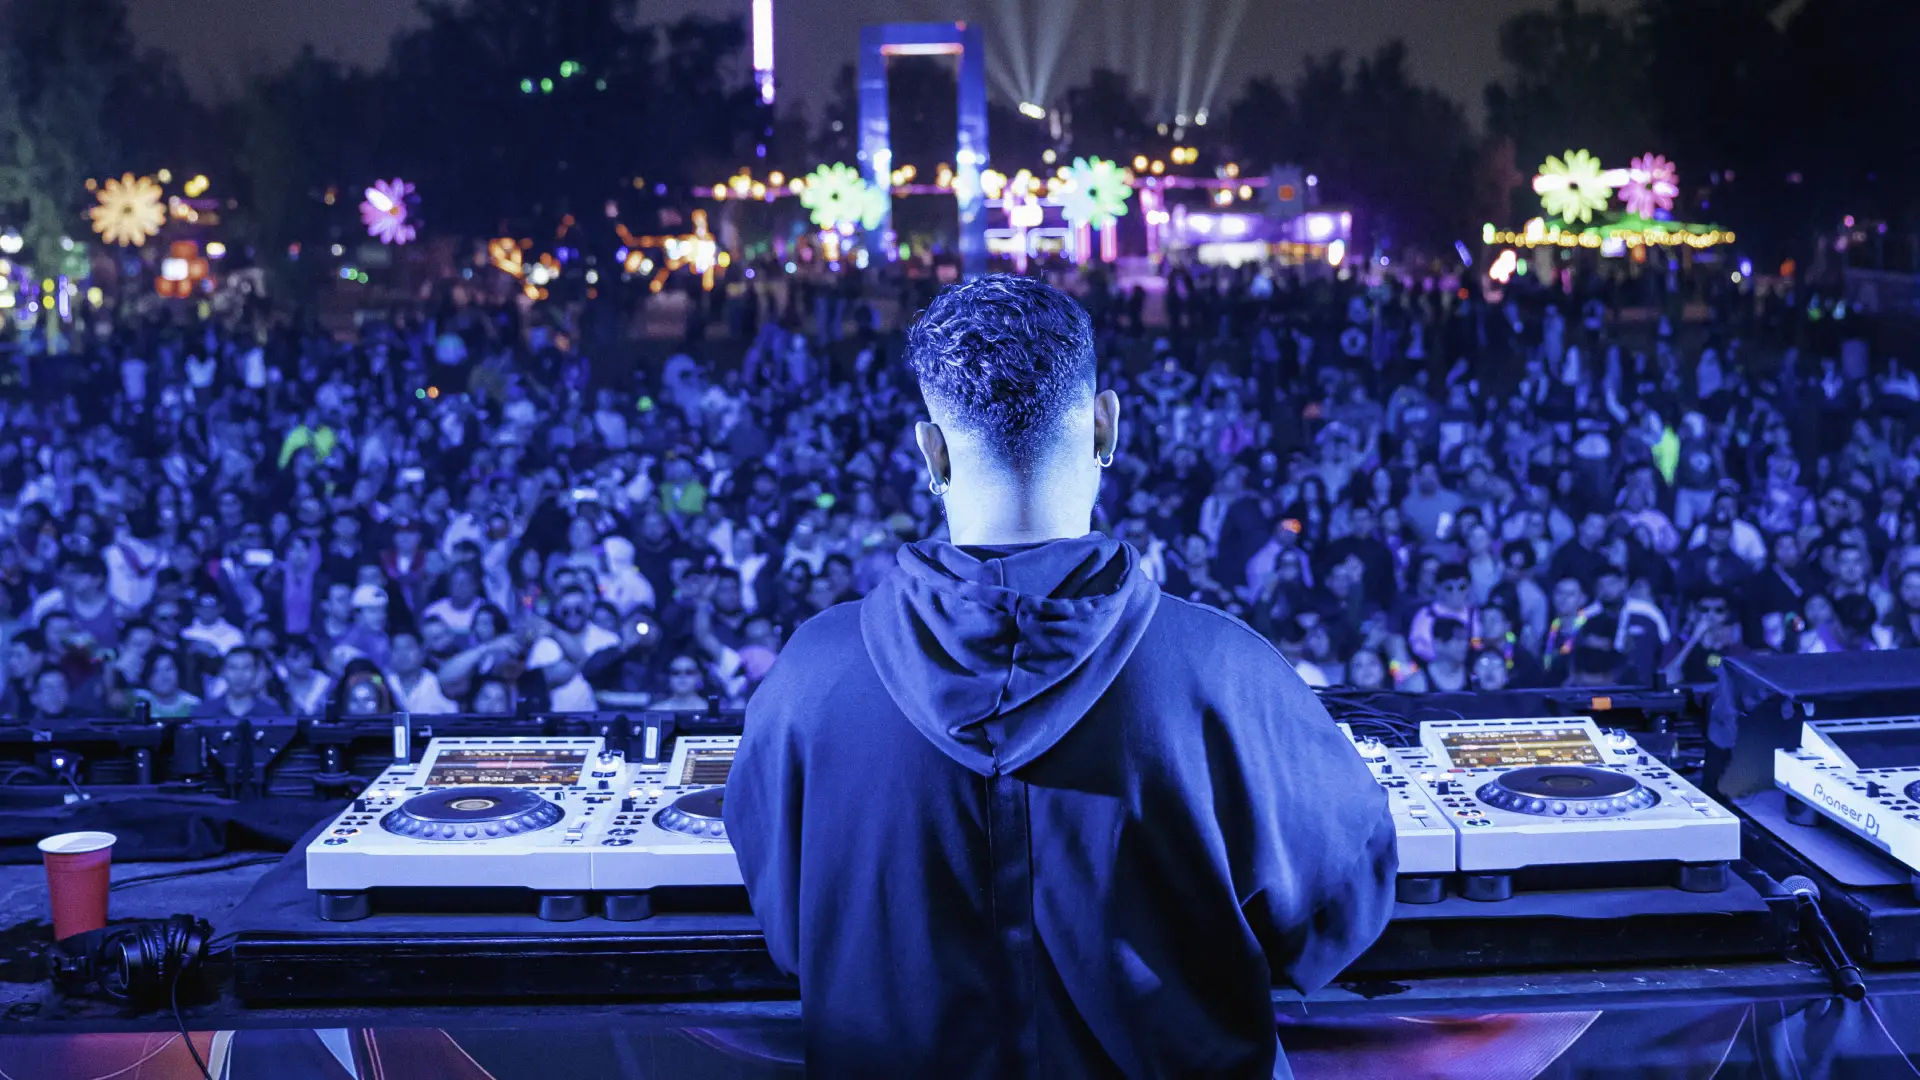
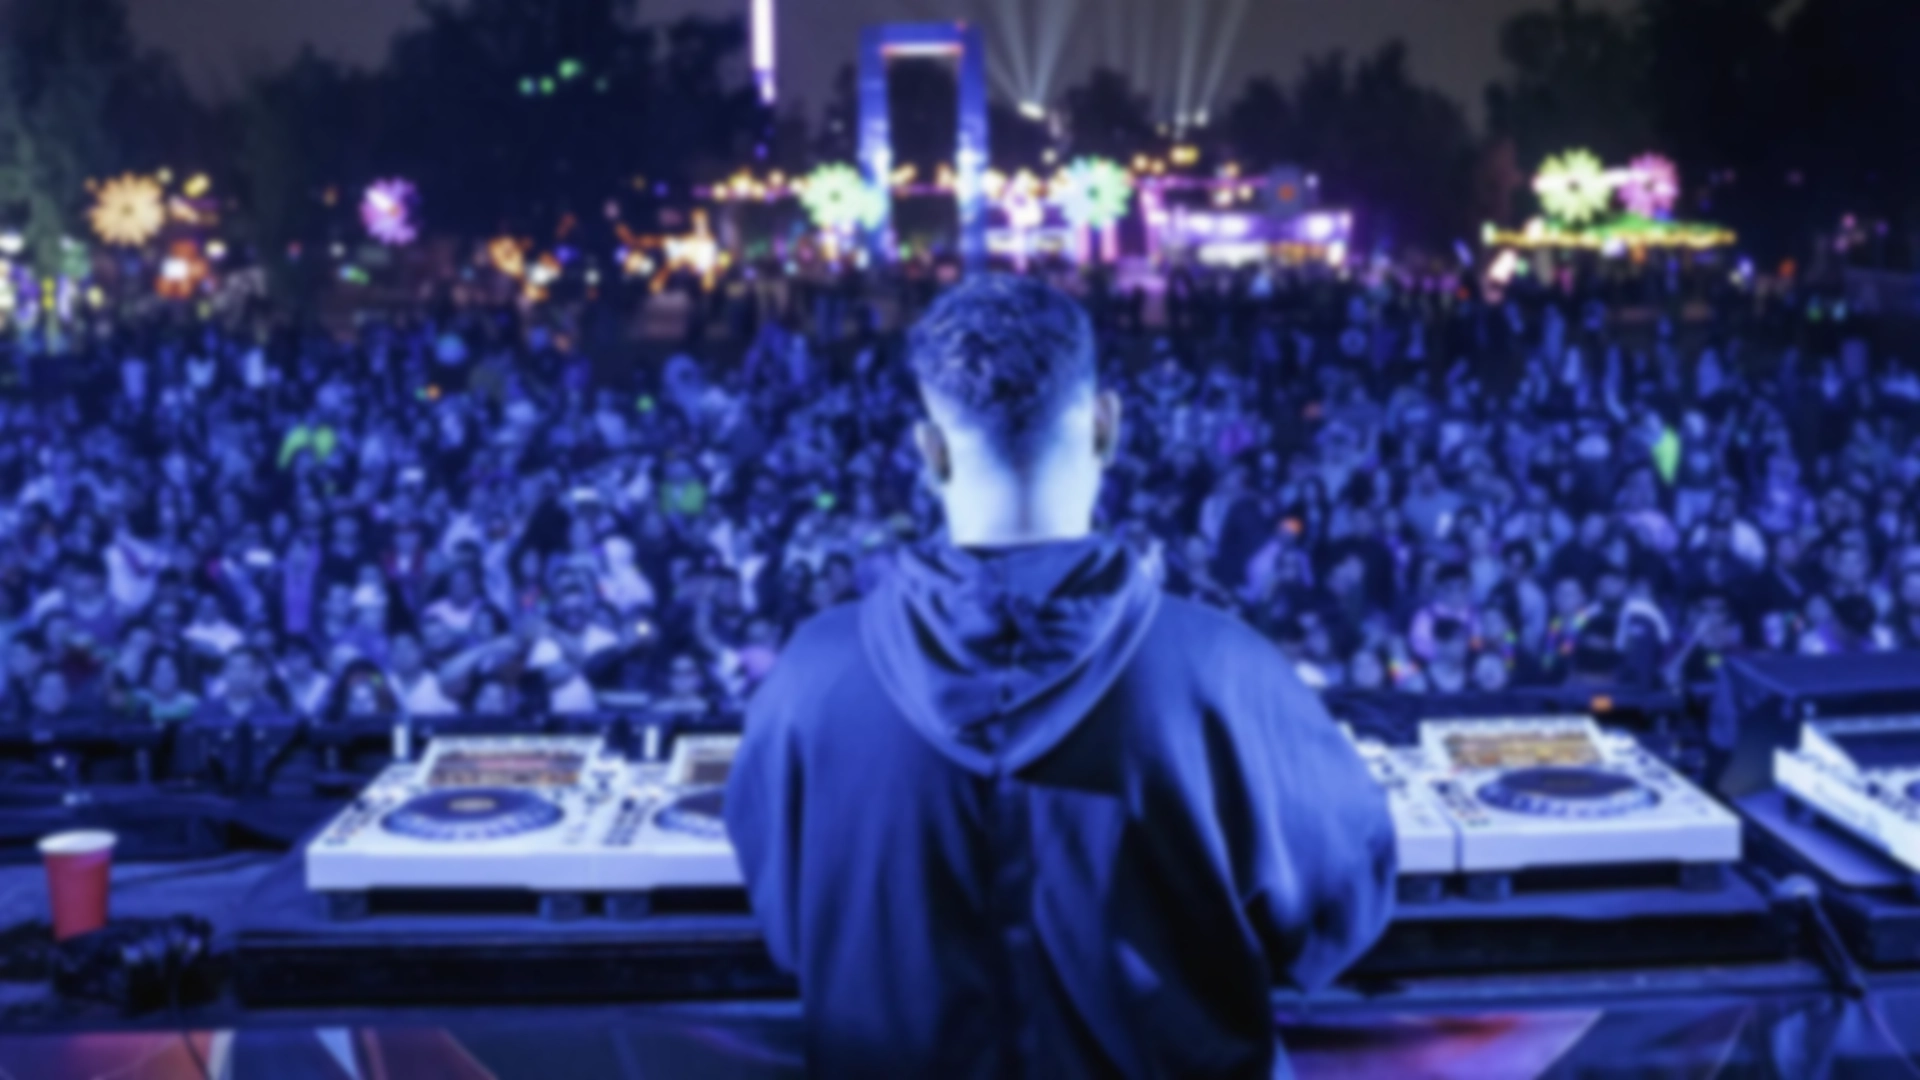
Cambios CSS e imagen
Se ajusto el css de la seccción 2 y se agrego la imagen de fondo

diff --git a/css/index.css b/css/index.css
@@ -236,6 +236,8 @@ i {
     width: 100%;
     height: 600px;
     justify-content: center;
+    background-image: url(/images/dj-colombiano-festival.webp);
+    background-position: 0 -120px;
     }
 
 